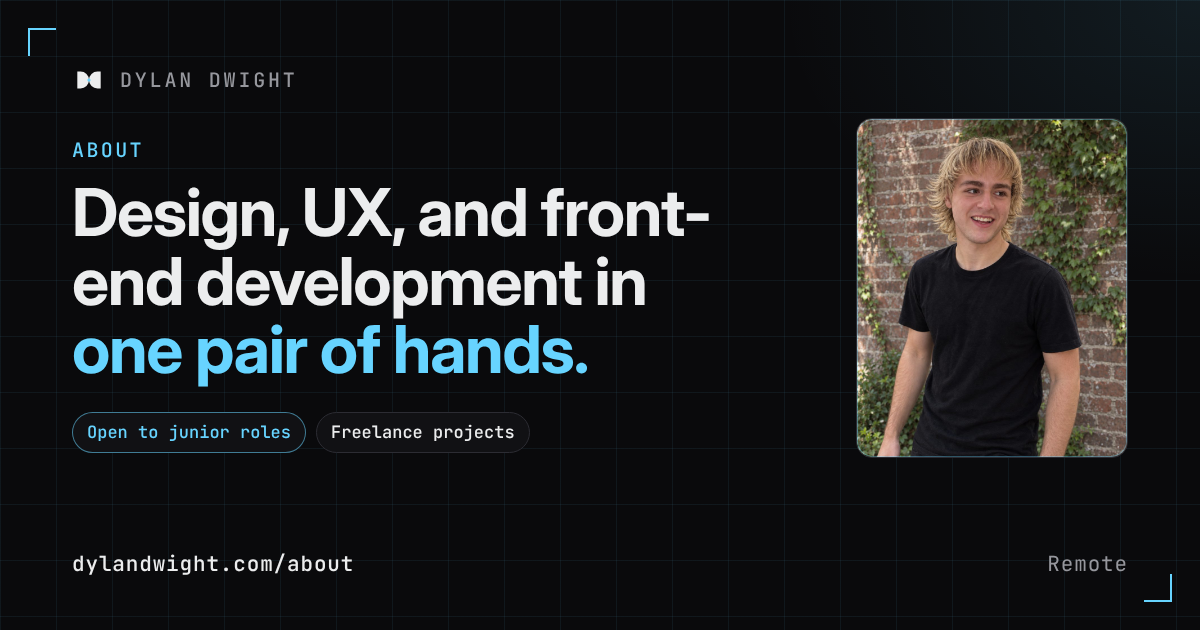
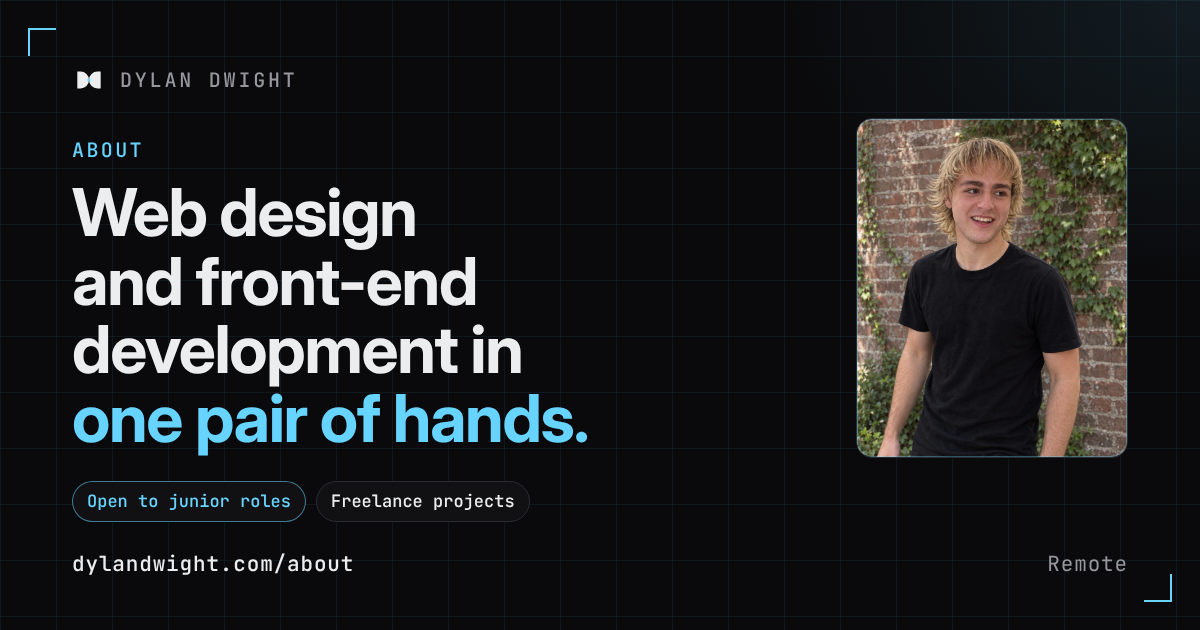
Lead with front-end developer / web designer instead of UX/UI
Update hiring copy on Home and About, the About H1, the Home/About share
images, and the résumé PDF summary and freelance title.

Claude-Session: https://claude.ai/code/session_0197k9k1qoP2qppKdpgvvncF

Changed region(s): [[0.0617, 0.3016, 0.5858, 0.7238], [0.0617, 0.7841, 0.2467, 0.8143], [0.2775, 0.7841, 0.4317, 0.8143]]

diff --git a/about/index.html b/about/index.html
@@ -17,13 +17,13 @@
 <meta property="og:image" content="https://dylandwight.com/assets/og/og-about.png" />
 <meta property="og:image:width" content="1200" />
 <meta property="og:image:height" content="630" />
-<meta property="og:image:alt" content="About Dylan Dwight: design, UX, and front-end development in one pair of hands. Open to junior roles." />
+<meta property="og:image:alt" content="About Dylan Dwight: web design and front-end development in one pair of hands. Open to junior roles." />
 
 <meta name="twitter:card" content="summary_large_image" />
 <meta name="twitter:title" content="About — Dylan Dwight" />
 <meta name="twitter:description" content="Dylan Dwight is a remote web designer and front-end developer combining visual design, UX thinking, and hand-coded front-end development for independent businesses and creative work." />
 <meta name="twitter:image" content="https://dylandwight.com/assets/og/og-about.png" />
-<meta name="twitter:image:alt" content="About Dylan Dwight: design, UX, and front-end development in one pair of hands. Open to junior roles." />
+<meta name="twitter:image:alt" content="About Dylan Dwight: web design and front-end development in one pair of hands. Open to junior roles." />
 
 <link rel="icon" href="/assets/favicon.svg" type="image/svg+xml" />
 <link rel="icon" href="/assets/favicon-32.png" sizes="32x32" type="image/png" />
@@ -155,7 +155,7 @@
       <div class="about-grid">
         <div>
           <span class="eyebrow">About · Oregon Coast &amp; Remote</span>
-          <h1 id="page-heading">Design, UX, and front-end development in one pair of hands.</h1>
+          <h1 id="page-heading">Web design and front-end development in one pair of hands.</h1>
           <p class="lede">I'm Dylan Dwight. I run a small practice building clear, responsive digital experiences for independent businesses and creative work.</p>
           <div class="hero-chips">
             <span class="label-chip label-chip--accent">Open to junior roles</span>
@@ -229,8 +229,8 @@
     <div class="wrap">
       <div class="corner-panel hiring-panel" data-reveal>
         <span class="eyebrow eyebrow--accent">04 · For hiring managers</span>
-        <h2 id="hiring-heading">Open to junior front-end and UX/UI roles</h2>
-        <p class="lede">I'm available for junior front-end / UX/UI opportunities alongside select freelance projects. The Sand Dollar case study is the most complete picture of how I approach a project end to end.</p>
+        <h2 id="hiring-heading">Open to junior front-end developer and web designer roles</h2>
+        <p class="lede">I'm available for junior front-end developer, web designer, and design engineer roles alongside select freelance projects. The Sand Dollar case study is the most complete picture of how I approach a project end to end.</p>
         <div class="about-links">
           <a href="/work/" class="btn btn-primary">See my work <svg viewBox="0 0 24 24" fill="none" stroke="currentColor" stroke-width="2" stroke-linecap="round" stroke-linejoin="round" aria-hidden="true"><path d="M5 12h14M13 6l6 6-6 6"/></svg></a>
           <a href="/resume/dylan-dwight-resume.pdf" class="text-link" target="_blank" rel="noopener">Résumé <span class="work-card-meta">PDF</span> <svg viewBox="0 0 24 24" fill="none" stroke="currentColor" stroke-width="2" stroke-linecap="round" stroke-linejoin="round" aria-hidden="true"><path d="M7 17 17 7M8 7h9v9"/></svg><span class="sr-only"> (opens in a new tab)</span></a>

diff --git a/index.html b/index.html
@@ -172,7 +172,7 @@
         <p class="eyebrow eyebrow--wrap"><span>Oregon Coast</span><span class="eyebrow-sep" aria-hidden="true">·</span><span>Remote</span><span class="eyebrow-sep" aria-hidden="true">·</span><span>Relocating to NYC, spring 2027</span></p>
         <h1 id="hero-heading">Web design and <span class="nowrap">front-end</span> development for independent businesses.</h1>
         <p class="lede">I'm Dylan Dwight. I design and build clear, fast, responsive websites for independent businesses and creative work, scoped and quoted around what you actually need.</p>
-        <p class="hero-availability">Available for select freelance web projects and junior front-end / UX/UI opportunities.</p>
+        <p class="hero-availability">Available for select freelance web projects and junior front-end developer and web designer roles.</p>
         <p class="hero-hiring">
           <span class="hero-hiring-label">Hiring?</span>
           <a href="/resume/dylan-dwight-resume.pdf" class="text-link" target="_blank" rel="noopener">Résumé <span class="work-card-meta">PDF</span> <svg viewBox="0 0 24 24" fill="none" stroke="currentColor" stroke-width="2" stroke-linecap="round" stroke-linejoin="round" aria-hidden="true"><path d="M7 17 17 7M8 7h9v9"/></svg><span class="sr-only"> (opens in a new tab)</span></a>

diff --git a/scripts/og/template.html b/scripts/og/template.html
@@ -76,14 +76,14 @@
     home: `
       <div class="narrow">
         <h1 style="margin-top:52px;font-size:56px;max-width:700px">Web design and front-end development for <span class="accent">independent businesses.</span></h1>
-        <p class="lede" style="font-size:23px;max-width:none">Freelance projects and junior front-end / UX/UI roles.</p>
+        <p class="lede" style="font-size:23px;max-width:none">Freelance projects and junior front-end / web design roles.</p>
       </div>
       <div class="portrait" style="top:118px;height:340px;width:272px"><img src="${A}img/about/portrait.jpg"></div>
       <div class="foot"><b>dylandwight.com</b><span>Remote</span></div>`,
     about: `
       <div class="narrow">
         <p class="eyebrow">About</p>
-        <h1>Design, UX, and front-end development in <span class="accent">one pair of hands.</span></h1>
+        <h1>Web design and front-end development in <span class="accent">one pair of hands.</span></h1>
         <div class="chips"><span class="chip accent">Open to junior roles</span><span class="chip">Freelance projects</span></div>
       </div>
       <div class="portrait" style="top:118px;height:340px;width:272px"><img src="${A}img/about/portrait.jpg"></div>
